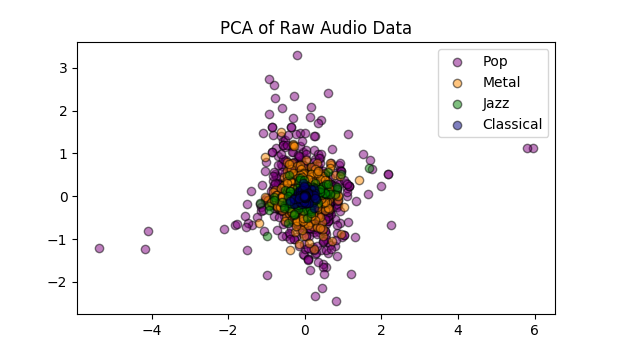
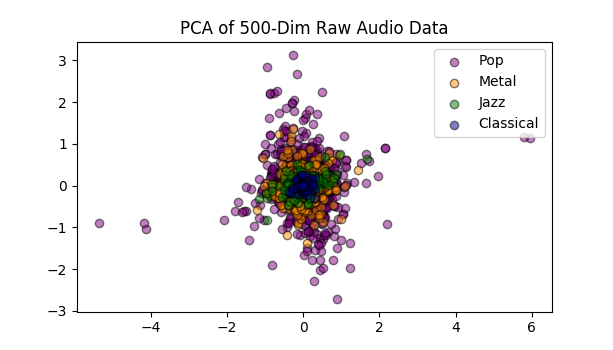
Fixed labels for PCA graphs

diff --git a/testsoftmaxautoencoder.py b/testsoftmaxautoencoder.py
@@ -67,7 +67,7 @@ def runPCA2D(sess, encoding, inputs_batch, labels_batch, X, Y, y_hat):
 	plt.cla()
 
 	# run PCA on raw data
-	'''truelabels = tf.math.argmax(Y, axis=1).eval()
+	truelabels = tf.math.argmax(Y, axis=1).eval()
 	pca = decomposition.PCA(n_components = 3)
 	pca.fit(X)
 	latents = pca.transform(X)
@@ -77,13 +77,13 @@ def runPCA2D(sess, encoding, inputs_batch, labels_batch, X, Y, y_hat):
                 label=name, edgecolor='k')
 	plt.title('PCA of 500-Dim Raw Audio Data')
 	plt.legend(loc='upper right', shadow=False, scatterpoints=1)
-	plt.show()'''
+	plt.show()
 
 	# run PCA on encoder results
 	#latents = sess.run([encoding], feed_dict={inputs_batch : X, labels_batch : Y})
 	#latents = latents[0]
 	#run PCA on the logits of the deep softmax autoencoders
-	_, latents = sess.run([encoding, y_hat], feed_dict={inputs_batch : X, labels_batch : Y})
+	'''_, latents = sess.run([encoding, y_hat], feed_dict={inputs_batch : X, labels_batch : Y})
 
 	truelabels = tf.math.argmax(Y, axis=1).eval()
 	pca = decomposition.PCA(n_components = 3)
@@ -104,7 +104,7 @@ def runPCA2D(sess, encoding, inputs_batch, labels_batch, X, Y, y_hat):
 	plt.title('PCA of 4-Dim Deep Softmax Autoencoder Logits')
 	plt.legend(loc='upper right', shadow=False, scatterpoints=1)
 
-	plt.show()
+	plt.show()'''
 
 def runPCA3D(sess, encoding, inputs_batch, labels_batch, X, Y, y_hat):
 	allgenres = ['classical', 'jazz', 'metal', 'pop']
@@ -170,22 +170,22 @@ def test(X, Y):
 		correct_labels = truelabels.eval()
 		confmat = confusion_matrix(correct_labels, pred, class_names)
 		np.set_printoptions(precision=2)
-		plt.figure()
-		plot_confusion_matrix(confmat, classes=class_names, normalize=False, title='Confusion matrix, without normalization')
-		plt.figure()
-		plot_confusion_matrix(confmat, classes=class_names, normalize=True, title='Normalized Confusion Matrix over Validation Set')
+		#plt.figure()
+		#plot_confusion_matrix(confmat, classes=class_names, normalize=False, title='Confusion matrix, without normalization')
+		#plt.figure()
+		#plot_confusion_matrix(confmat, classes=class_names, normalize=True, title='Normalized Confusion Matrix over Validation Set')
 		# Commented out to prevent showing the matrix everytime code is run
-		plt.show()
+		#plt.show()
 
 
-		#runPCA2D(sess, encoding, inputs_batch, labels_batch, X, Y, y_hat)
+		runPCA2D(sess, encoding, inputs_batch, labels_batch, X, Y, y_hat)
 		#runPCA3D(sess, encoding, inputs_batch, labels_batch, X, Y, y_hat)
 
 
 def main():
-	songs = pd.read_csv('songs_dev.csv')
-	labels = pd.read_csv('labels_dev.csv')
-	#songs, labels = load_data()
+	#songs = pd.read_csv('songs_dev.csv')
+	#labels = pd.read_csv('labels_dev.csv')
+	songs, labels = load_data()
 	test(songs, labels)
 
 if __name__== "__main__":
